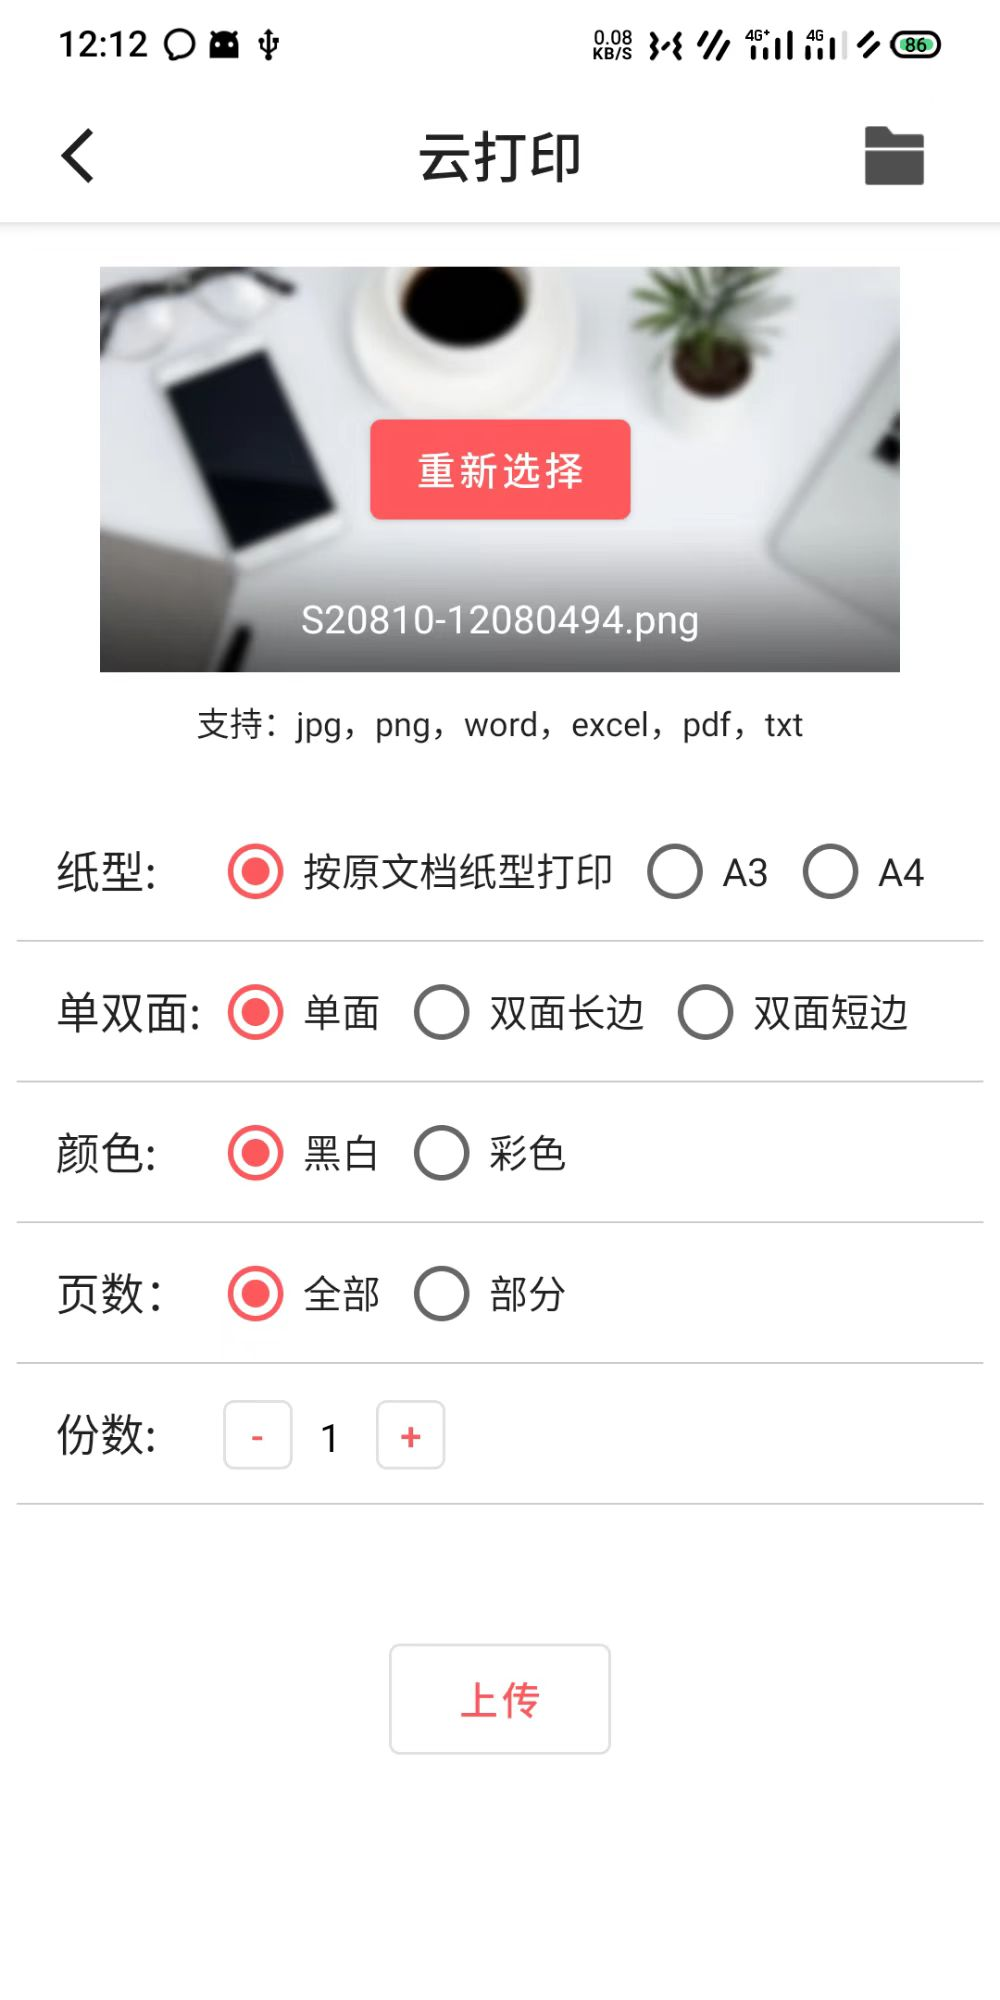
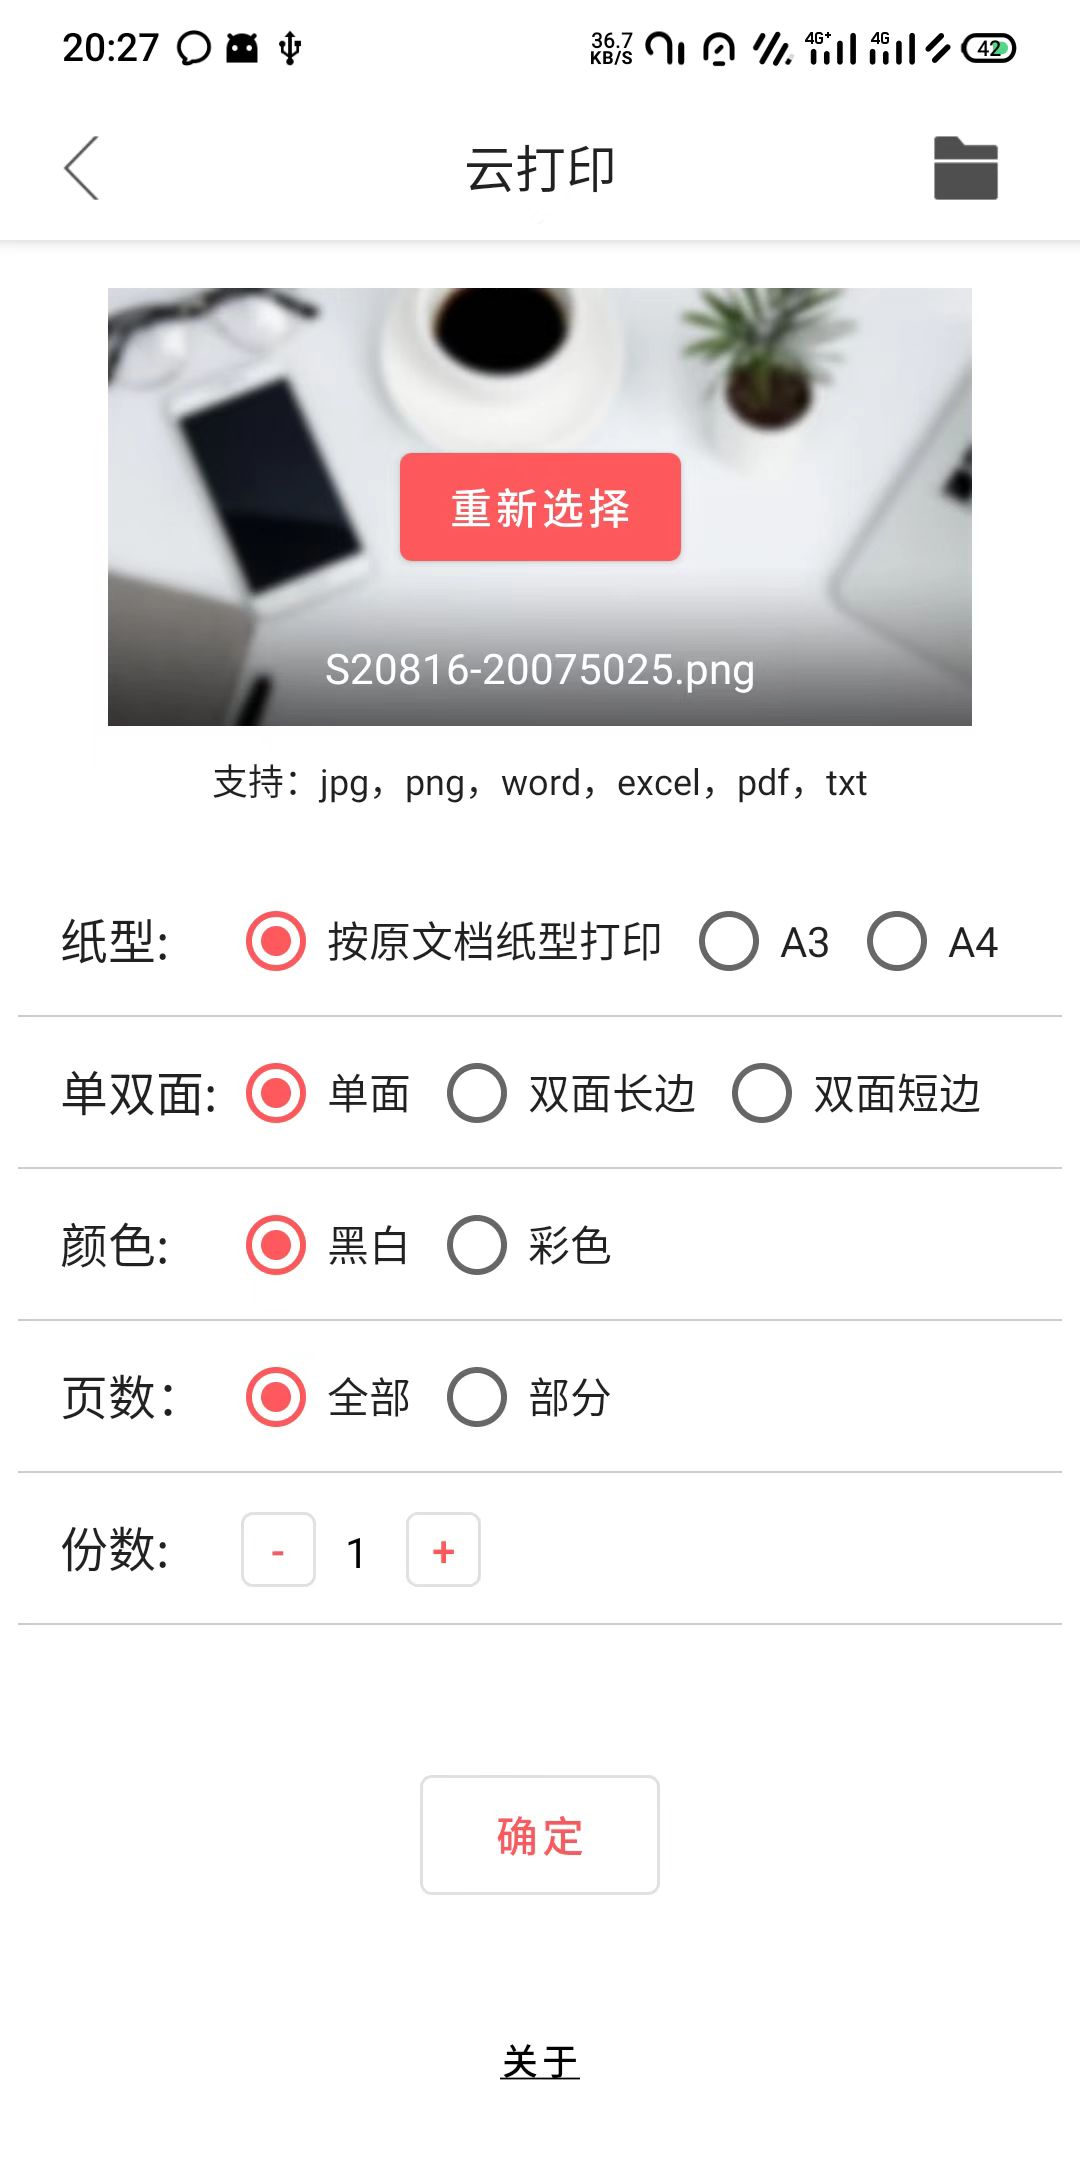
添加关于按钮

diff --git a/app/src/main/java/com/darley/unifound/printer/ui/printer/UploadActivity.kt b/app/src/main/java/com/darley/unifound/printer/ui/printer/UploadActivity.kt
@@ -7,6 +7,7 @@ import android.content.Context
 import android.content.Intent
 import android.content.pm.ActivityInfo
 import android.graphics.BitmapFactory
+import android.net.Uri
 import android.os.Bundle
 import android.util.Log
 import androidx.activity.ComponentActivity
@@ -48,6 +49,7 @@ import com.darley.unifound.printer.R
 import com.darley.unifound.printer.ui.WebViewActivity
 import com.darley.unifound.printer.ui.login.LoginActivity
 import com.darley.unifound.printer.ui.theme.PrinterTheme
+import com.darley.unifound.printer.ui.view.About
 import com.darley.unifound.printer.ui.view.Loading
 import com.darley.unifound.printer.ui.view.UploadDivider
 import com.darley.unifound.printer.utils.ActivityCollector
@@ -192,6 +194,11 @@ class UploadActivity : ComponentActivity() {
                                     UploadDivider()
                                     Spacer(modifier = Modifier.height(20.dp))
                                     UploadButton()
+                                    About(onClick = {
+                                        val intent = Intent(Intent.ACTION_VIEW,
+                                            Uri.parse("https://gitee.com/Darley-Wey/Unifound-Printer"))
+                                        startActivity(intent)
+                                    })
                                 }
                             }
                         }
@@ -590,15 +597,14 @@ fun UploadButton(
 @Composable
 fun DefaultPreview() {
     PrinterTheme {
-        // A surface container using the 'background' color from the theme
         val scaffoldState = rememberScaffoldState()
         Box(
             contentAlignment = Alignment.Center,
         ) {
             Scaffold(
                 scaffoldState = scaffoldState,
-                topBar = { },
             )
+            // Scaffold 必须接收 innerPadding
             { innerPadding ->
                 val paperOptions =
                     listOf(listOf("按原文档纸型打印", "-1"), listOf("A3", "8"), listOf("A4", "9"))
@@ -611,27 +617,43 @@ fun DefaultPreview() {
                 Box(
                     modifier = Modifier
                         .fillMaxSize()
+                        .verticalScroll(rememberScrollState())
                         .padding(innerPadding),
                     contentAlignment = Alignment.TopCenter,
                 ) {
-//                        println("height $maxHeight")
                     Column(
                         modifier = Modifier
-                            .width(350.dp)
+                            .fillMaxWidth()
                             .padding(top = 16.dp),
+                        horizontalAlignment = Alignment.CenterHorizontally,
                     ) {
+                        val configuration = LocalConfiguration.current
+                        val screenHeight = configuration.screenHeightDp.dp
+                        println("height $screenHeight")
                         FileSelector({ })
-                        UploadRadioOption(paper, paperOptions)
-                        UploadDivider()
-                        UploadRadioOption(duplex, duplexOptions)
-                        UploadDivider()
-                        UploadRadioOption(color, colorOptions)
-                        UploadDivider()
-                        Pages()
-                        UploadDivider()
-                        Copies()
-                        UploadDivider()
-                        UploadButton()
+                        Spacer(modifier = Modifier.height(if (screenHeight > 900.dp) 40.dp else 20.dp))
+                        Column(
+                            modifier = Modifier.width(400.dp),
+                            verticalArrangement = if (screenHeight > 900.dp) Arrangement.spacedBy(
+                                16.dp
+                            ) else Arrangement.spacedBy(
+                                0.dp
+                            ),
+                        ) {
+                            UploadRadioOption(paper, paperOptions)
+                            UploadDivider()
+                            UploadRadioOption(duplex, duplexOptions)
+                            UploadDivider()
+                            UploadRadioOption(color, colorOptions)
+                            UploadDivider()
+                            Pages()
+                            UploadDivider()
+                            Copies()
+                            UploadDivider()
+                            Spacer(modifier = Modifier.height(20.dp))
+                            UploadButton()
+                            About()
+                        }
                     }
                 }
             }

diff --git a/app/src/main/java/com/darley/unifound/printer/ui/view/About.kt b/app/src/main/java/com/darley/unifound/printer/ui/view/About.kt
@@ -1,0 +1,41 @@
+package com.darley.unifound.printer.ui.view
+
+import androidx.compose.foundation.layout.Box
+import androidx.compose.foundation.layout.fillMaxWidth
+import androidx.compose.foundation.layout.height
+import androidx.compose.material.Text
+import androidx.compose.material.TextButton
+import androidx.compose.runtime.Composable
+import androidx.compose.ui.Alignment
+import androidx.compose.ui.Modifier
+import androidx.compose.ui.graphics.Color
+import androidx.compose.ui.text.style.TextDecoration
+import androidx.compose.ui.tooling.preview.Preview
+import androidx.compose.ui.unit.dp
+import androidx.compose.ui.unit.sp
+
+@Composable
+fun About(onClick: () -> Unit = {}) {
+    Box(
+        modifier = Modifier
+            .fillMaxWidth()
+            .height(50.dp),
+        contentAlignment = Alignment.Center,
+    ) {
+        TextButton(onClick = onClick)
+        {
+            Text(
+                text = "关于",
+                fontSize = 12.sp,
+                color = Color.Black,
+                textDecoration = TextDecoration.Underline,
+            )
+        }
+    }
+}
+
+@Preview(showBackground = true)
+@Composable
+fun DefaultPreviewAbout() {
+    About()
+}
